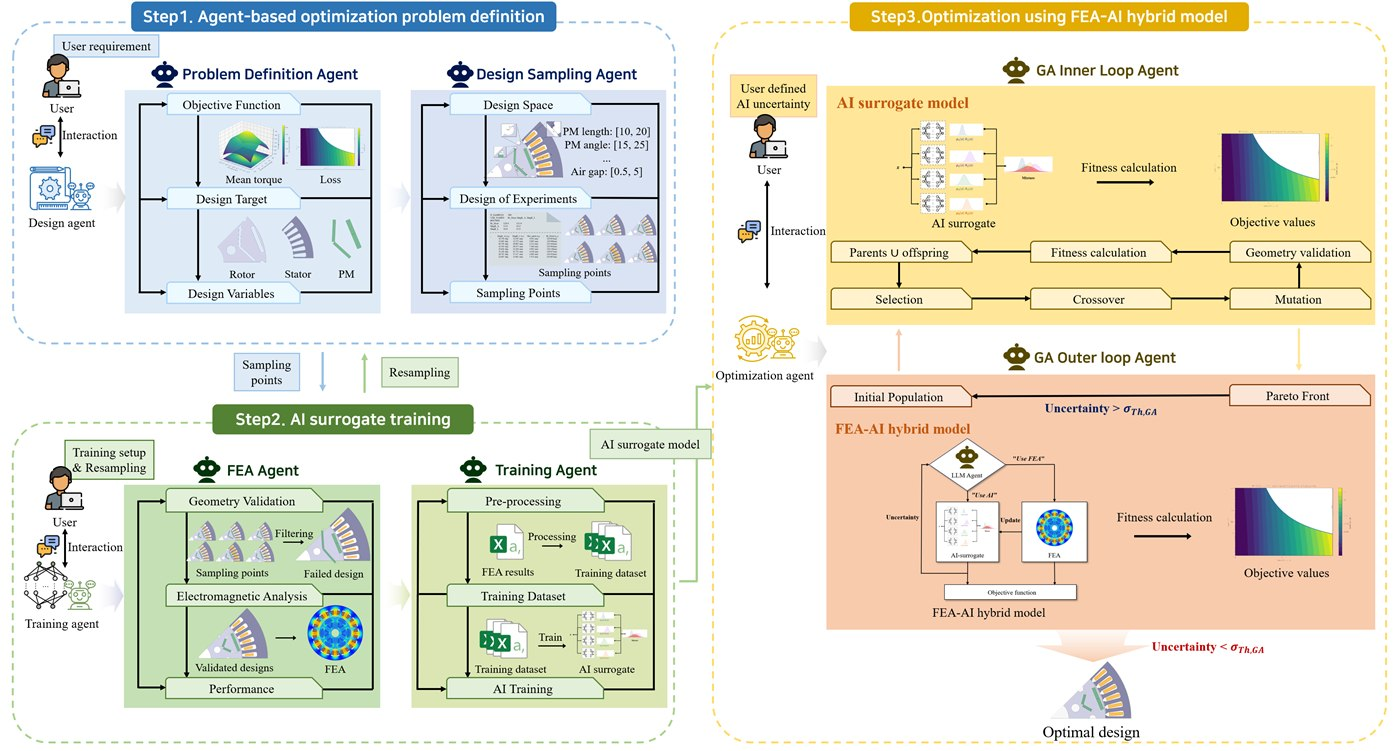
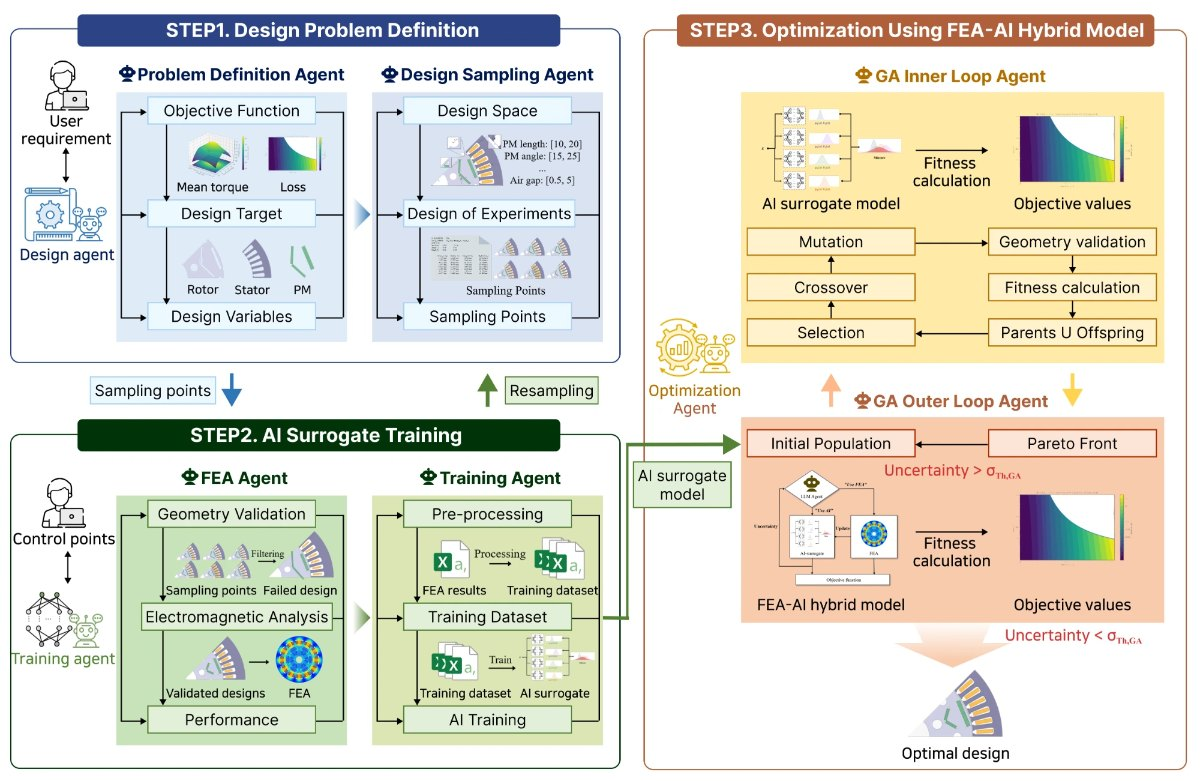
Research: updated framework figure
Replace the first research figure with the revised version (STEP1 Design
Problem Definition / STEP2 AI Surrogate Training / STEP3 Optimization Using
FEA-AI Hybrid Model). New aspect ratio, so the width/height attributes, alt
text and caption follow. Bump asset ?v=14.

diff --git a/index.html b/index.html
@@ -39,8 +39,8 @@
   <!-- NanumSquare (Bold / ExtraBold) is declared in style.css and served from jsDelivr -->
   <link rel="preconnect" href="https://cdn.jsdelivr.net" crossorigin>
   <!-- Bump ?v= whenever style.css / main.js change, so browsers don't keep a stale cached copy -->
-  <link rel="stylesheet" href="assets/css/style.css?v=13">
-  <noscript><link rel="stylesheet" href="assets/css/noscript.css?v=13"></noscript>
+  <link rel="stylesheet" href="assets/css/style.css?v=14">
+  <noscript><link rel="stylesheet" href="assets/css/noscript.css?v=14"></noscript>
 
   <script type="application/ld+json">
   {
@@ -246,7 +246,7 @@
       <!-- Featured -->
       <article class="feature reveal">
         <a class="feature__fig paper" href="#r-parametric" data-modal="r-parametric" aria-label="Open details: Multi-Agent based Parametric Motor Design Optimization">
-          <img src="assets/img/research/parametric-framework-thumb.jpg" width="1400" height="751" alt="Framework overview: agents for problem definition, AI surrogate training, and optimization with an FEA–AI hybrid model" decoding="async">
+          <img src="assets/img/research/parametric-framework-thumb.jpg" width="1200" height="781" alt="Framework overview: agents for design problem definition, AI surrogate training, and optimization with an FEA–AI hybrid model" decoding="async">
         </a>
         <div class="feature__body">
           <ul class="badges">
@@ -513,8 +513,8 @@
         <div><dt>−5.8<small>%</small></dt><dd>iron loss with the adaptive uncertainty threshold vs. a fixed one</dd></div>
       </dl>
       <figure class="fig">
-        <a class="paper" href="assets/img/research/parametric-framework.jpg" target="_blank" rel="noopener" title="Open full size"><img src="assets/img/research/parametric-framework.jpg" width="2600" height="1395" alt="Three-step framework: agent-based problem definition, AI surrogate training with FEA and training agents, and GA optimization using an FEA–AI hybrid model" loading="lazy" decoding="async"></a>
-        <figcaption><b>Fig. 1</b> Agent-based IPMSM design optimization — problem definition, AI surrogate training, and optimization with the FEA–AI hybrid model.</figcaption>
+        <a class="paper" href="assets/img/research/parametric-framework.jpg" target="_blank" rel="noopener" title="Open full size"><img src="assets/img/research/parametric-framework.jpg" width="2000" height="1301" alt="Three-step framework: design problem definition by the problem-definition and design-sampling agents, AI surrogate training by the FEA and training agents, and GA optimization using an FEA–AI hybrid model" loading="lazy" decoding="async"></a>
+        <figcaption><b>Fig. 1</b> Agent-based IPMSM design optimization — design problem definition, AI surrogate training, and optimization with the FEA–AI hybrid model.</figcaption>
       </figure>
       <figure class="fig">
         <a class="paper" href="assets/img/research/parametric-design-space.jpg" target="_blank" rel="noopener" title="Open full size"><img src="assets/img/research/parametric-design-space.jpg" width="1812" height="617" alt="IPMSM cross-section annotated with design variables x1 to x12 and a table of sampled designs" loading="lazy" decoding="async"></a>
@@ -655,6 +655,6 @@
   </article>
 </dialog>
 
-<script src="assets/js/main.js?v=13" defer></script>
+<script src="assets/js/main.js?v=14" defer></script>
 </body>
 </html>

diff --git a/404.html b/404.html
@@ -16,7 +16,7 @@
     })();
   </script>
   <link rel="preconnect" href="https://cdn.jsdelivr.net" crossorigin>
-  <link rel="stylesheet" href="/assets/css/style.css?v=13">
+  <link rel="stylesheet" href="/assets/css/style.css?v=14">
   <style>
     .lost { min-height: 100dvh; display: grid; place-content: center; justify-items: start; gap: 14px; }
     .lost h1 { font-weight: 800; font-size: clamp(44px, 9vw, 92px); line-height: 1.02; letter-spacing: -.03em; }
